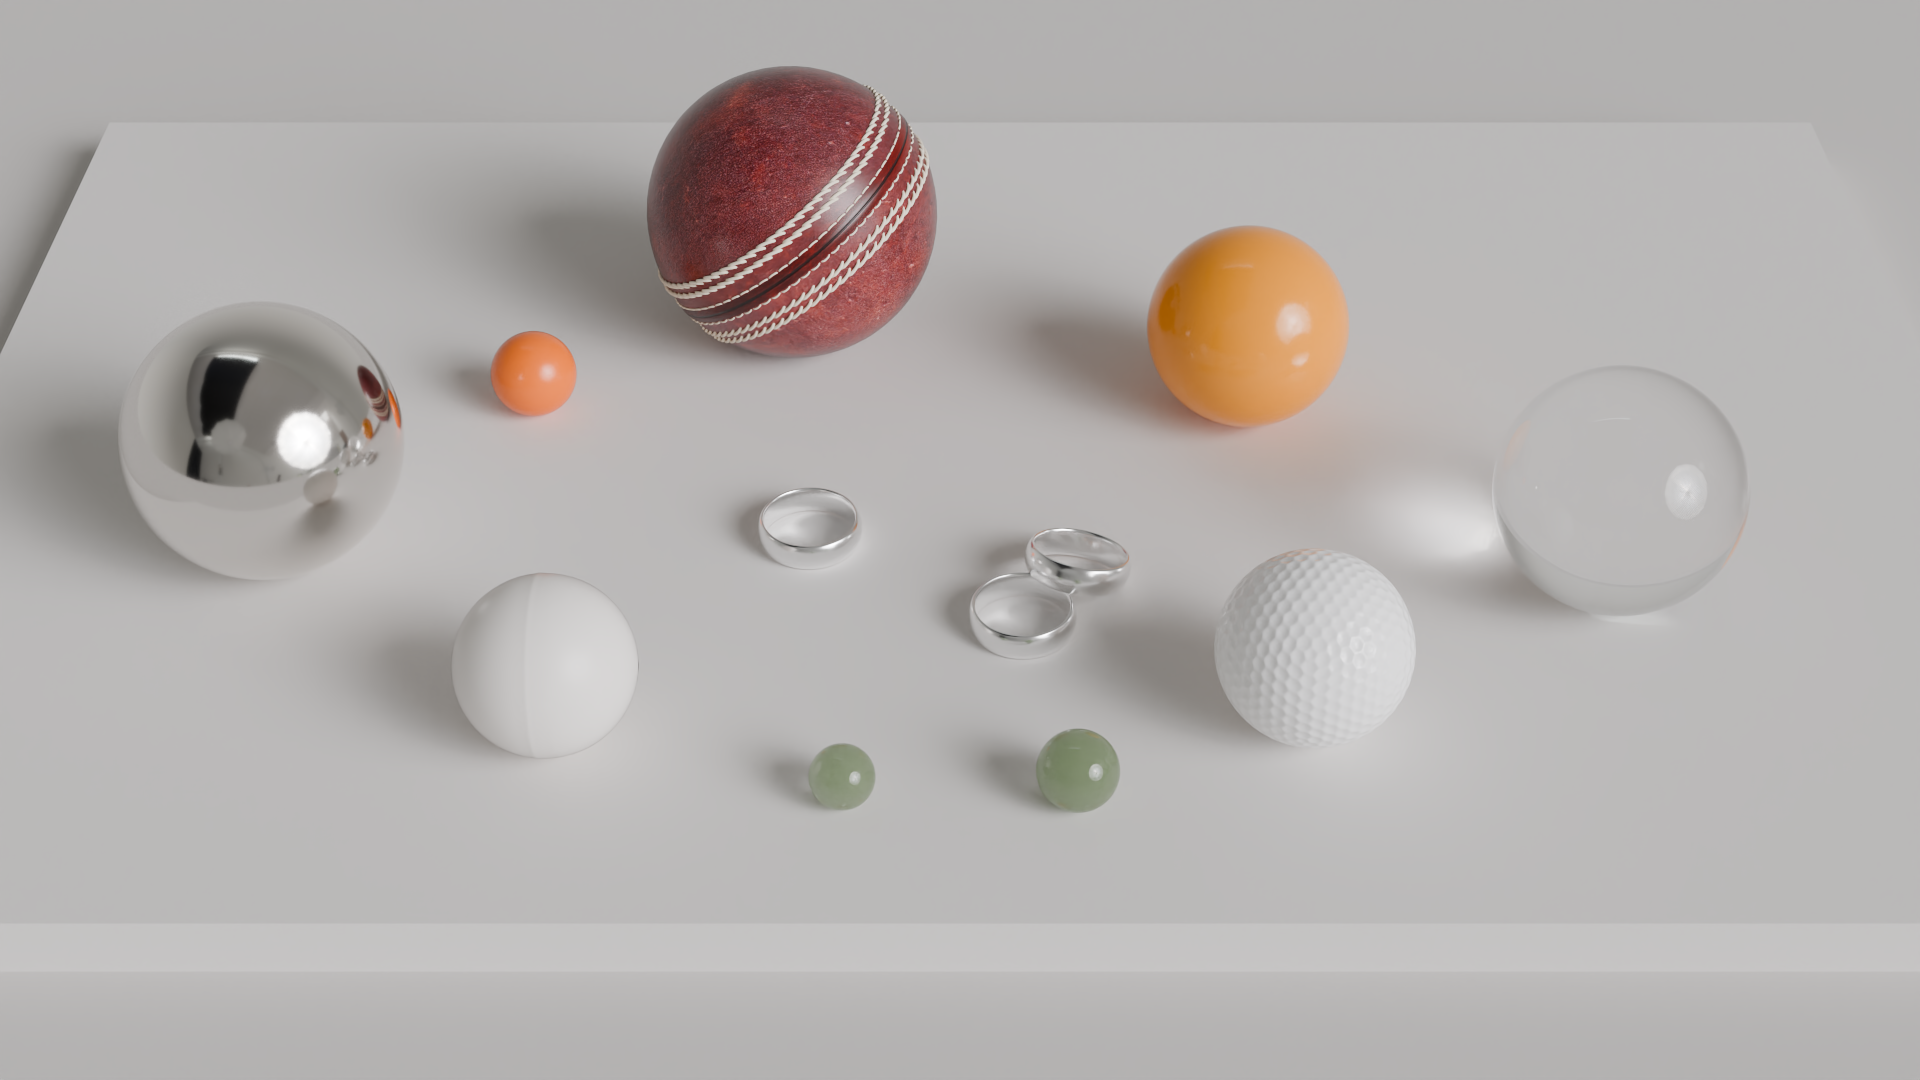
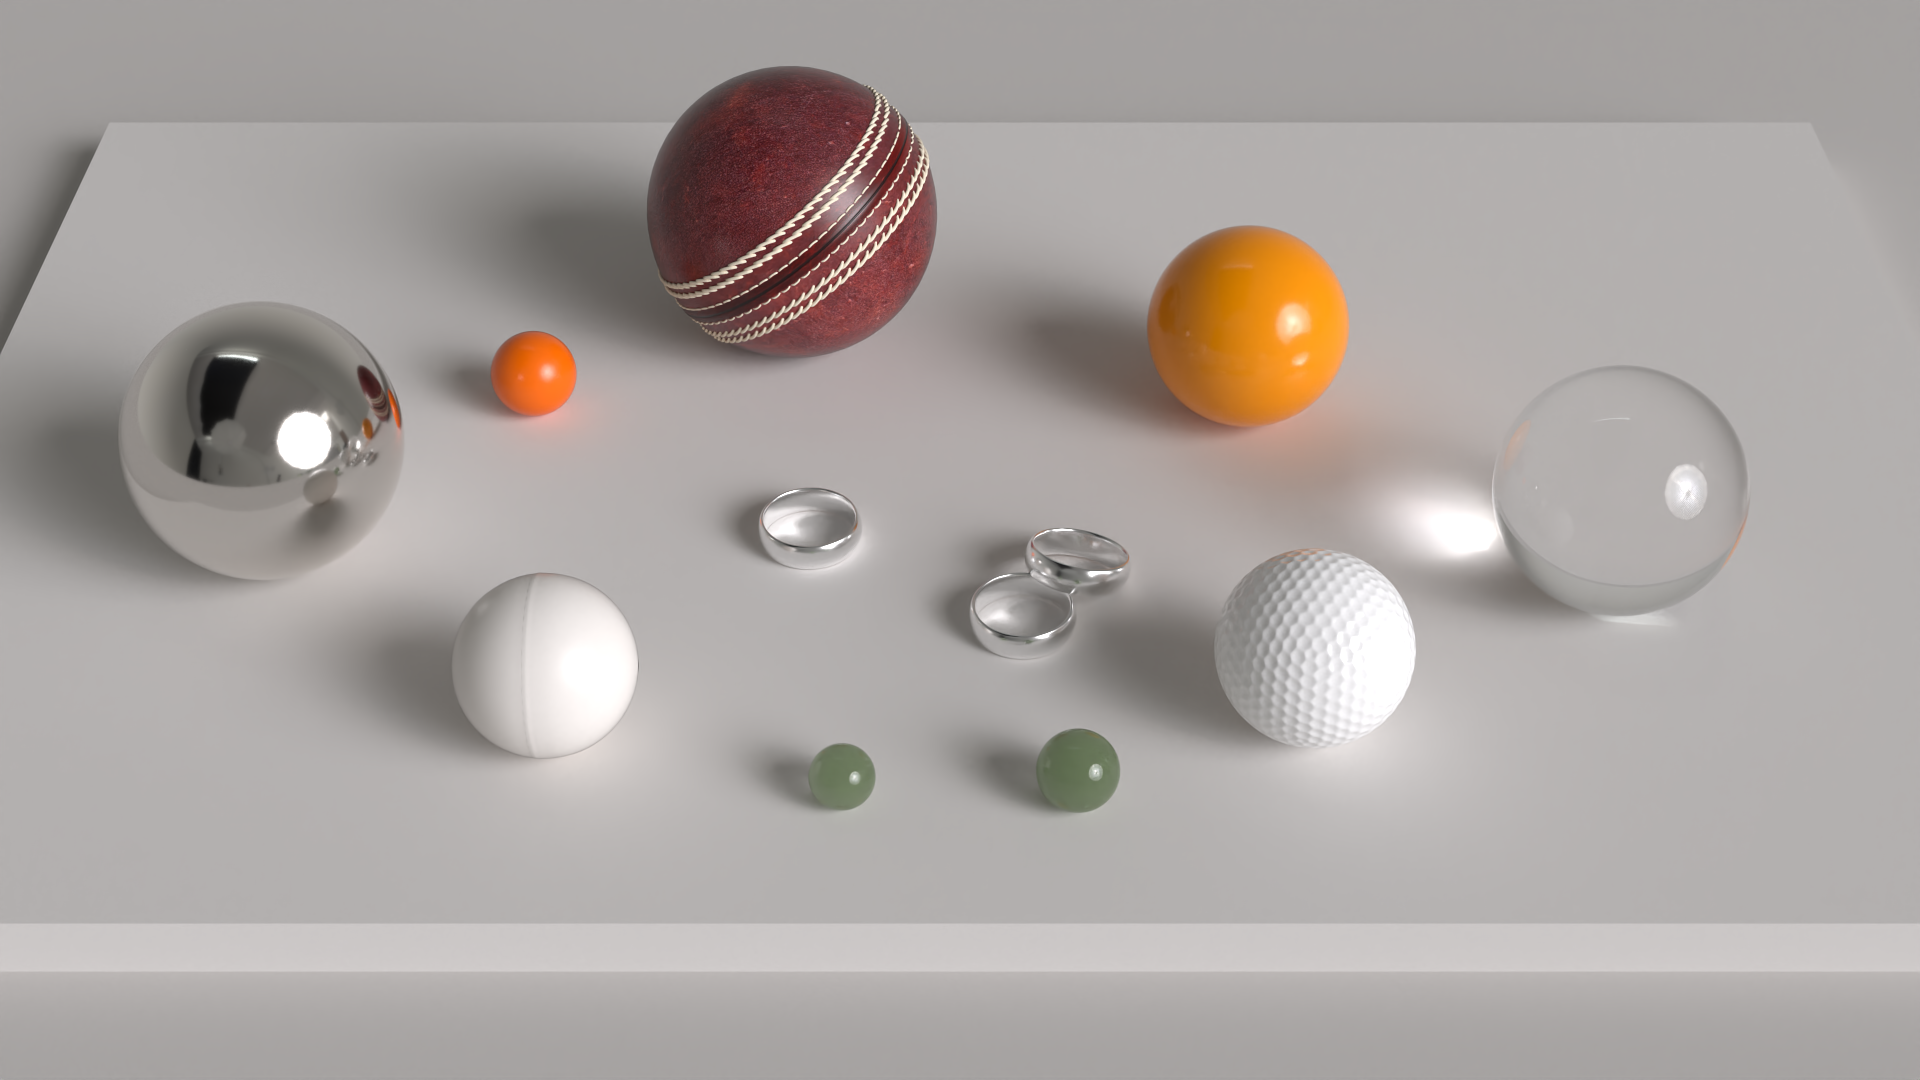
Update hyperion scene with environment intensity change

diff --git a/src/scenes/hyperion.rs b/src/scenes/hyperion.rs
@@ -47,7 +47,6 @@ pub fn hyperion_scene(width: Option<usize>, height: Option<usize>) -> Scene {
     let metal_idx = mat!(materials, Reflective::new(Color::new(0.93, 0.93, 0.93).into(), 0.2));
     let dark_metal_idx = mat!(materials, Reflective::new(Color::new(0.757, 0.729, 0.694).into(), 0.10));
     let platform_idx = mat!(materials, Diffuse::new(Color::new(0.76, 0.74, 0.72).into(), 0.0));
-    // let vol_idx = mat!(materials, Volumetric::new(orange_color.into()));
     let orange_idx = mat!(materials, Plastic::new(orange_color.into(), 0.15, 1.5));
     let orange_rough_idx = mat!(materials, Plastic::new(orange_bright_color.into(), 0.25, 1.5));
     let marble_vol_idx = mat!(materials, Volumetric::new(Color::new(0.60, 0.71, 0.49).into()));
@@ -59,11 +58,8 @@ pub fn hyperion_scene(width: Option<usize>, height: Option<usize>) -> Scene {
     let floor_plane = Plane::new(Axis::XZ, Bounds2D::new(-50.0..50.0, -50.0..50.0), 0.0, floor_idx);
     let platform = Rectangle::new(Vec3A::new(-3.5, 0.0, -4.0), Vec3A::new(3.5, 0.2, 0.5), platform_idx);
     let glass_sphere = Sphere::new(Vec3A::new(2.1, 0.60, -1.0), 0.4, glass_idx);
-    // let orange_sphere = Sphere::new(Vec3A::new(1.0, 0.56, -2.0), 0.4, glass_idx);
     let orange_sphere = Sphere::new(Vec3A::new(1.0, 0.55, -2.0), 0.35, orange_idx);
     let metal_sphere = Sphere::new(Vec3A::new(-2.25, 0.65, -1.2), 0.45, dark_metal_idx);
-    // let cloned_sphere = orange_sphere.clone();
-    // let sphere_volume = Volume::new(3.0, cloned_sphere.into(), vol_idx);
     let large_marble = Sphere::new(Vec3A::new(0.35, 0.325, 0.0), 0.125, glass_idx);
     let small_marble = Sphere::new(Vec3A::new(-0.35, 0.30, 0.0), 0.10, glass_idx);
     let large_marble_volume = Volume::new(15.0, large_marble.clone().into(), marble_vol_idx);
@@ -78,9 +74,10 @@ pub fn hyperion_scene(width: Option<usize>, height: Option<usize>) -> Scene {
     let cricket_ball_mesh = TriangleMesh::from("extras/models/cricket_ball_no_stitch.obj", cricket_idx);
     let cricket_ball_stitch_bottom_mesh = TriangleMesh::from("extras/models/cricket_ball_stitch_bottom.obj", cream_idx);
     let cricket_ball_stitch_top_mesh = TriangleMesh::from("extras/models/cricket_ball_stitch_top.obj", cream_idx);
-    let cricked_ball = TransformedMesh::new(Vec3A::new(-0.6, 0.70, -2.5), Vec3A::new(-30.0, 0.0, 15.0), Vec3A::splat(1.75), cricket_ball_mesh.into());
-    let cricked_ball_stitch_bottom = TransformedMesh::new(Vec3A::new(-0.6, 0.70, -2.5), Vec3A::new(-30.0, 0.0, 15.0), Vec3A::splat(1.75), cricket_ball_stitch_bottom_mesh.into());
-    let cricked_ball_stitch_top = TransformedMesh::new(Vec3A::new(-0.6, 0.70, -2.5), Vec3A::new(-30.0, 0.0, 15.0), Vec3A::splat(1.75), cricket_ball_stitch_top_mesh.into());
+    let (translation, rotation, scale) = (Vec3A::new(-0.6, 0.70, -2.5), Vec3A::new(-30.0, 0.0, 15.0), Vec3A::splat(1.75));
+    let cricked_ball = TransformedMesh::new(translation, rotation, scale, cricket_ball_mesh.into());
+    let cricked_ball_stitch_bottom = TransformedMesh::new(translation, rotation, scale, cricket_ball_stitch_bottom_mesh.into());
+    let cricked_ball_stitch_top = TransformedMesh::new(translation, rotation, scale, cricket_ball_stitch_top_mesh.into());
 
     let pingpong_mesh = TriangleMesh::from("extras/models/pingpong.obj", pingpong_idx);
     let pingpong_sphere = TransformedMesh::new(Vec3A::new(-1.25, 0.475, -0.3), Vec3A::new(0.0, 0.0, 90.0), Vec3A::splat(0.28), pingpong_mesh.into());
@@ -94,7 +91,6 @@ pub fn hyperion_scene(width: Option<usize>, height: Option<usize>) -> Scene {
     objects.push(glass_sphere.into());
     objects.push(metal_sphere.into());
     objects.push(orange_sphere.into());
-    // objects.push(sphere_volume.into());
     objects.push(large_marble.into());
     objects.push(small_marble.into());
     objects.push(large_marble_volume.into());
@@ -111,7 +107,7 @@ pub fn hyperion_scene(width: Option<usize>, height: Option<usize>) -> Scene {
 
     let bvh = BVH::new(&mut objects);
 
-    let environment = EnvironmentMap::new("extras/textures/white_studio_03.exr", 1.0).into();
+    let environment = EnvironmentMap::new("extras/textures/white_studio_03.exr", 0.6).into();
 
     Scene::new(String::from("Hyperion"), bvh, materials, camera, vec![], Some(environment), None)
 }
